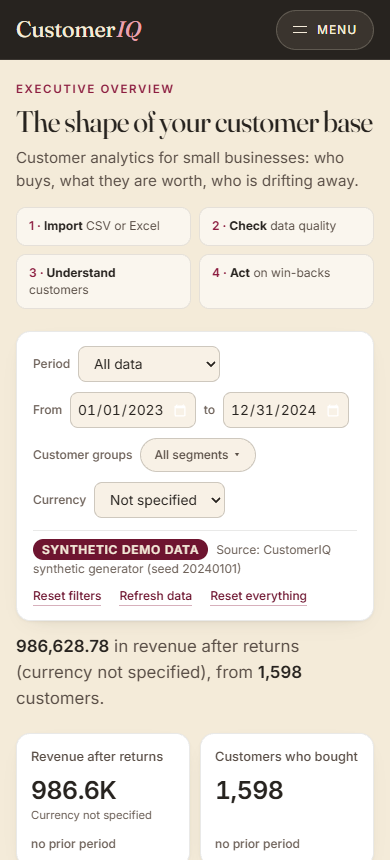
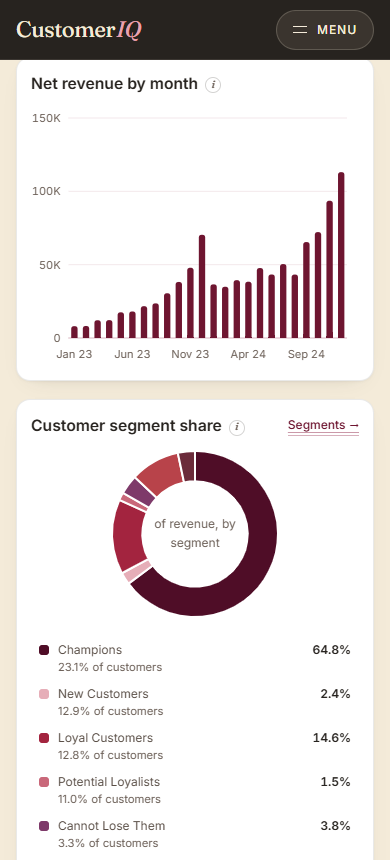
Show more charts in the README's Standard screenshots [skip render]
Recapture Overview, Revenue and the Standard phone view taller or scrolled
to their charts, add Cohort Retention and Customer Behaviour, drop the
Segments shot, and give Standard and 3D Exploration their own sections.
3D screenshots are unchanged.

diff --git a/README.md b/README.md
@@ -22,15 +22,24 @@
 | **SQL Library** | 24 documented read-only queries, run with the current filters |
 | **Exports** | PDF report, Excel workbook, formula-safe CSV |
 
-## Standard and 3D Exploration
+## Standard
+
+![Revenue Analytics](docs/screenshots/web/standard-revenue.png)
+
+| Cohort Retention | Customer Behaviour |
+|---|---|
+| ![Cohort Retention](docs/screenshots/web/standard-cohorts.png) | ![Customer Behaviour](docs/screenshots/web/standard-behaviour.png) |
+
+## 3D Exploration
 
 | | |
 |---|---|
-| ![Customer Segmentation](docs/screenshots/web/standard-segments.png) | ![Revenue Analytics](docs/screenshots/web/standard-revenue.png) |
 | ![Overview, 3D](docs/screenshots/web/3d-overview.png) | ![Segments, 3D](docs/screenshots/web/3d-segments.png) |
 | ![Cohorts, 3D](docs/screenshots/web/3d-cohorts.png) | ![Behaviour, 3D](docs/screenshots/web/3d-behaviour.png) |
 
 3D Exploration is a six-stop guided tour (three.js, loaded only when switched on; 2D fallback without WebGL).
+
+## On a phone
 
 | Phone · Standard | Phone · 3D | Import guide |
 |---|---|---|
